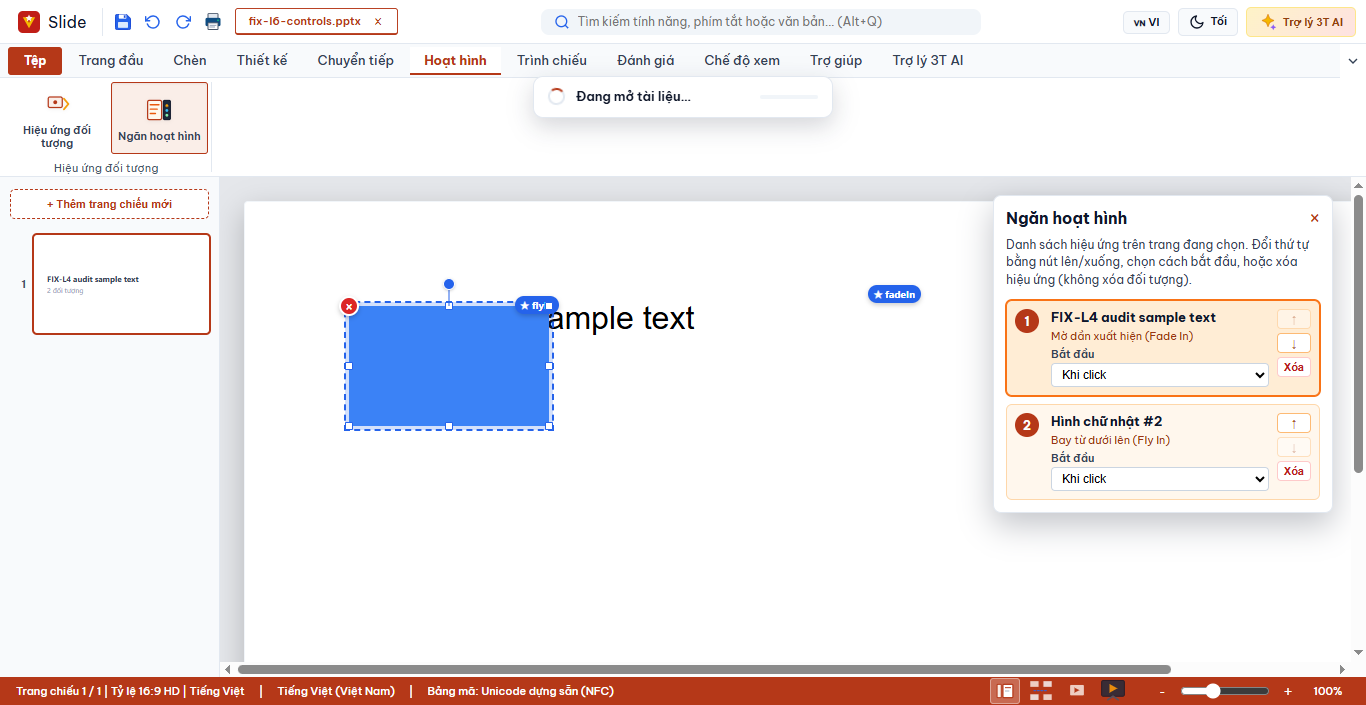
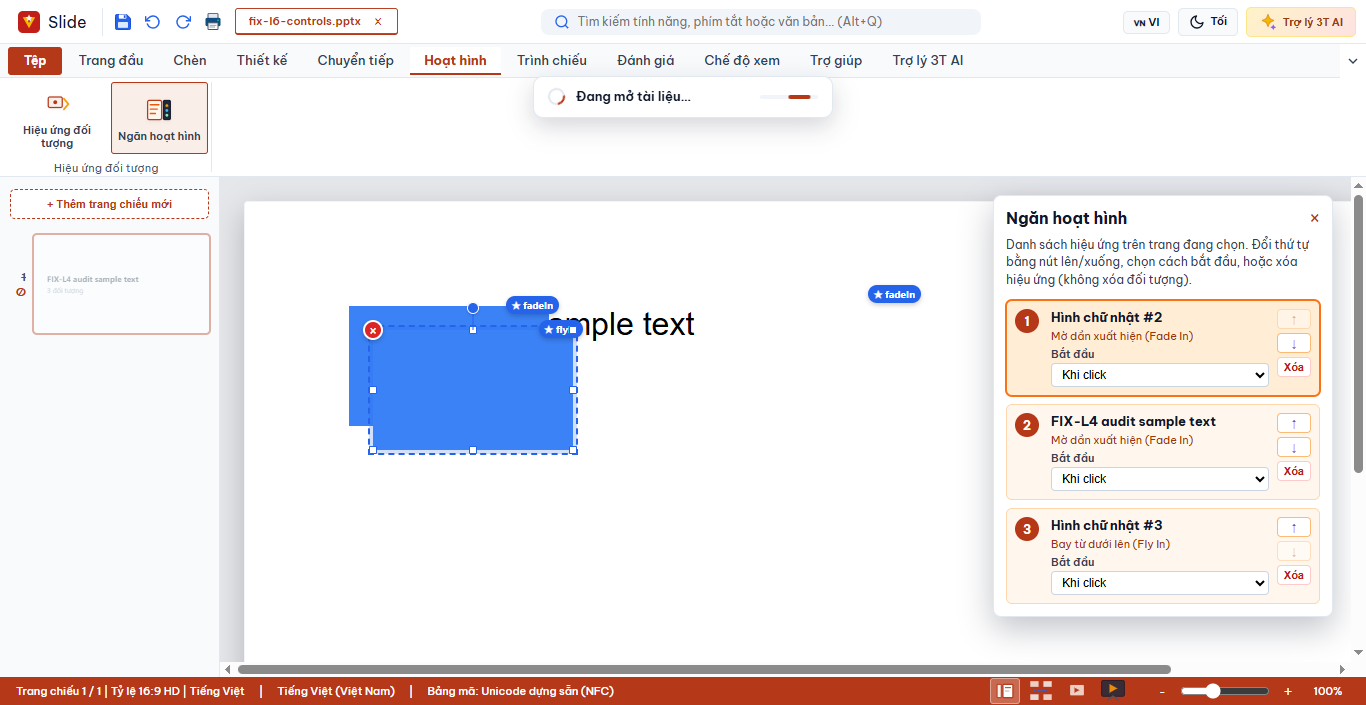
fix(slides): preserve PowerPoint animation timeline types

diff --git a/adapters/libreoffice/common/ooxml_zip_patch.py b/adapters/libreoffice/common/ooxml_zip_patch.py
@@ -6591,6 +6591,56 @@ def restore_notes_to_pptx(
     return dest.getvalue()
 
 
+def _normalize_slides_animation_timing(pptx_bytes: bytes) -> dict[str, str]:
+    """Group LibreOffice click effects so PowerPoint reads their preset and timing."""
+    presentation_ns = "http://schemas.openxmlformats.org/presentationml/2006/main"
+    p = "{" + presentation_ns + "}"
+    replacements: dict[str, str] = {}
+    with zipfile.ZipFile(io.BytesIO(pptx_bytes), "r") as package:
+        slide_names = [name for name in package.namelist() if re.fullmatch(r"ppt/slides/slide\d+\.xml", name)]
+        slide_xml = {name: package.read(name) for name in slide_names}
+
+    for name, xml_bytes in slide_xml.items():
+        for _, (prefix, uri) in ET.iterparse(io.BytesIO(xml_bytes), events=("start-ns",)):
+            if prefix:
+                ET.register_namespace(prefix, uri)
+        root = ET.fromstring(xml_bytes)
+        parents = {child: parent for parent in root.iter() for child in parent}
+        click_effects = [node for node in root.iter(p + "cTn") if node.get("nodeType") == "clickEffect" and node.get("presetID") in {"2", "10"}]
+        if not click_effects:
+            continue
+        next_id = max((int(node.get("id", "0")) for node in root.iter(p + "cTn") if node.get("id", "").isdigit()), default=0) + 1
+        changed = False
+        for click_node in click_effects:
+            effect_par = parents.get(click_node)
+            siblings = parents.get(effect_par) if effect_par is not None else None
+            if effect_par is None or effect_par.tag != p + "par" or siblings is None or siblings.tag != p + "childTnLst":
+                continue
+            existing_wrapper = parents.get(siblings)
+            existing_conditions = existing_wrapper.find(p + "stCondLst") if existing_wrapper is not None else None
+            existing_condition = existing_conditions.find(p + "cond") if existing_conditions is not None else None
+            if existing_wrapper is not None and existing_wrapper.tag == p + "cTn" and existing_condition is not None and existing_condition.get("delay") == "0":
+                continue
+            preset_id = click_node.get("presetID")
+            click_node.set("presetClass", click_node.get("presetClass") or "entr")
+            click_node.set("presetSubtype", click_node.get("presetSubtype") or ("0" if preset_id == "10" else "4"))
+            click_node.set("grpId", click_node.get("grpId") or "0")
+            wrapper_par = ET.Element(p + "par")
+            wrapper_timing = ET.SubElement(wrapper_par, p + "cTn", {"id": str(next_id), "fill": "hold"})
+            next_id += 1
+            conditions = ET.SubElement(wrapper_timing, p + "stCondLst")
+            ET.SubElement(conditions, p + "cond", {"delay": "0"})
+            children = ET.SubElement(wrapper_timing, p + "childTnLst")
+            children.append(effect_par)
+            index = list(siblings).index(effect_par)
+            siblings.remove(effect_par)
+            siblings.insert(index, wrapper_par)
+            changed = True
+        if changed:
+            replacements[name] = ET.tostring(root, encoding="unicode")
+    return replacements
+
+
 def postprocess_slides_pptx(
     pptx_bytes: bytes,
     *,
@@ -6655,8 +6705,10 @@ def postprocess_slides_pptx(
     # Luôn kiểm tra notes — ghi chú diễn giả mất trắng khi soffice convert
     notes_by_slide = parse_notes_from_fodp(source_fodp) if source_fodp else {}
 
-    if not apply_logo and not theme_id and not apply_sections and not apply_show and not apply_slide_size and not notes_by_slide:
+    animation_replacements = _normalize_slides_animation_timing(pptx_bytes)
+    if not apply_logo and not theme_id and not apply_sections and not apply_show and not apply_slide_size and not notes_by_slide and not animation_replacements:
         return pptx_bytes
+    replacements.update(animation_replacements)
 
     if apply_slide_size and presentation_xml:
         presentation_xml = apply_intended_slide_size(presentation_xml, intended_size)

diff --git a/tests/test_slides_pptx_animation_timing.py b/tests/test_slides_pptx_animation_timing.py
@@ -1,0 +1,55 @@
+"""Regression coverage for PowerPoint-readable animation timing wrappers."""
+from __future__ import annotations
+
+import io
+import unittest
+import zipfile
+import xml.etree.ElementTree as ET
+
+import main
+
+patcher = main._ooxml_zip_patch()
+P = "http://schemas.openxmlformats.org/presentationml/2006/main"
+PFX = "{" + P + "}"
+ET.register_namespace("p", P)
+
+
+def make_pptx(slide_xml: str) -> bytes:
+    buffer = io.BytesIO()
+    with zipfile.ZipFile(buffer, "w", compression=zipfile.ZIP_DEFLATED) as package:
+        package.writestr("ppt/slides/slide1.xml", slide_xml)
+    return buffer.getvalue()
+
+
+class SlidesPptxAnimationTimingTests(unittest.TestCase):
+    def test_click_effects_are_wrapped_and_keep_native_preset_timing(self):
+        xml = f'''<p:sld xmlns:p="{P}"><p:timing><p:tnLst><p:par><p:cTn id="1"><p:childTnLst>
+          <p:par><p:cTn id="2" presetID="10" nodeType="clickEffect"><p:stCondLst><p:cond delay="200"/></p:stCondLst><p:childTnLst/></p:cTn></p:par>
+          <p:par><p:cTn id="3" presetID="2" nodeType="clickEffect"><p:stCondLst><p:cond delay="0"/></p:stCondLst><p:childTnLst/></p:cTn></p:par>
+        </p:childTnLst></p:cTn></p:par></p:tnLst></p:timing></p:sld>'''
+        patched = patcher.postprocess_slides_pptx(make_pptx(xml))
+        with zipfile.ZipFile(io.BytesIO(patched)) as package:
+            root = ET.fromstring(package.read("ppt/slides/slide1.xml"))
+        parents = {child: parent for parent in root.iter() for child in parent}
+        click_nodes = [node for node in root.iter(PFX + "cTn") if node.get("nodeType") == "clickEffect"]
+        self.assertEqual([node.get("presetID") for node in click_nodes], ["10", "2"])
+        self.assertEqual([node.get("presetSubtype") for node in click_nodes], ["0", "4"])
+        self.assertEqual([node.get("grpId") for node in click_nodes], ["0", "0"])
+        for click_node in click_nodes:
+            effect_par = parents[click_node]
+            wrapper = parents[parents[effect_par]]
+            self.assertEqual(wrapper.get("fill"), "hold")
+            self.assertEqual(wrapper.find(PFX + "stCondLst").find(PFX + "cond").get("delay"), "0")
+
+    def test_existing_powerpoint_wrapper_is_not_duplicated(self):
+        xml = f'''<p:sld xmlns:p="{P}"><p:timing><p:tnLst><p:par><p:cTn id="1"><p:childTnLst>
+          <p:par><p:cTn id="2" fill="hold"><p:stCondLst><p:cond delay="0"/></p:stCondLst><p:childTnLst>
+            <p:par><p:cTn id="3" presetID="10" presetClass="entr" presetSubtype="0" grpId="0" nodeType="clickEffect"><p:childTnLst/></p:cTn></p:par>
+          </p:childTnLst></p:cTn></p:par>
+        </p:childTnLst></p:cTn></p:par></p:tnLst></p:timing></p:sld>'''
+        original = make_pptx(xml)
+        self.assertEqual(patcher.postprocess_slides_pptx(original), original)
+
+
+if __name__ == "__main__":
+    unittest.main()

diff --git a/docs/tickets-0710/HANDOFF-FIX-L6-CODEX.md b/docs/tickets-0710/HANDOFF-FIX-L6-CODEX.md
@@ -4,13 +4,13 @@ BRANCH: audit/slides-l6-codex
 WORKTREE: E:\VNOffice-codex-fl6
 OBJECTIVE: Compare untested Slides operations to real PowerPoint via COM; perform app operations with CDP; fix reproducible mismatches; capture evidence; run requested tests.
 FINDINGS: See `docs/tickets-0710/FIX-L6-RESULTS.md`. Shape format fixed and verified. Textbox/table/image/chart save and reopen verified. Basic diagram is seven individual shapes, not native SmartArt. Animation type/trigger and PowerPoint effect count mismatch; transition enum not confirmed. Layout/Reset and native theme parity remain unresolved. Start-current, pen mode, laser, and speaker notes verified as recorded.
-IMPLEMENTATION SUMMARY: Commit `9e38aad6` adds shape fill/outline/width/height/rotation UI, adapter serialization, Vietnamese Help/i18n and regression coverage. Follow-up commit fixes Help registry syntax. COM comparator and CDP evidence harness expanded.
-FILES CHANGED: `apps/slides/slides-canvas.js`; `adapters/libreoffice/slides/slides-adapter.js`; `platform/help/entries-slides.js`; `platform/i18n/strings-{vi,en}.js`; `tests/unit/slides-basics-audit.test.js`; `tests/unit/slides-shape-rotation-serialize.test.js`; `tests/live/cdp/slides-fix-l6*.desktop.mjs`; `scripts/audit-0610/office_parallel/slides/compare.ps1`; `docs/tickets-0710/FIX-L6-{PLAN,RESULTS}.md`; `docs/tickets-0710/evidence/fix-l6/*`.
-COMMANDS RUN: Focused Slides tests; CDP insert/controls/image/show scripts; `features-audit.desktop.mjs`; PowerPoint COM comparer on `fix-l6-image.pptx`, `fix-l6-controls.pptx`, `fix-l6-inserts.pptx`, `features-result.pptx`; `npm test`; `python -m unittest`; `python -m unittest discover`; `git diff --check` (run before handoff).
+IMPLEMENTATION SUMMARY: Commits `9e38aad6` and `0176ba2c` add shape formatting, Help/i18n, COM/CDP audit and evidence. This commit adds PPTX animation wrapper normalization so PowerPoint reads effects in native order and types.
+FILES CHANGED: `adapters/libreoffice/common/ooxml_zip_patch.py`; `tests/test_slides_pptx_animation_timing.py`; `apps/slides/slides-canvas.js`; `adapters/libreoffice/slides/slides-adapter.js`; `platform/help/entries-slides.js`; `platform/i18n/strings-{vi,en}.js`; `tests/unit/slides-basics-audit.test.js`; `tests/unit/slides-shape-rotation-serialize.test.js`; `tests/live/cdp/slides-fix-l6*.desktop.mjs`; `scripts/audit-0610/office_parallel/slides/compare.ps1`; `docs/tickets-0710/FIX-L6-{PLAN,RESULTS}.md`; `docs/tickets-0710/evidence/fix-l6/*`.
+COMMANDS RUN: Focused Slides tests; CDP insert/controls/image/show scripts; `features-audit.desktop.mjs`; PowerPoint COM comparer on `fix-l6-image.pptx`, `fix-l6-controls.pptx`, `fix-l6-inserts.pptx`, `features-result.pptx`; `npm test`; `python -m unittest`; `python -m unittest discover`; focused animation postprocess unittest 2/2 PASS; `git diff --check` (run before handoff).
 BUILD RESULT: NOT RUN (no build requested).
 TEST RESULTS: `npm test` PASS 3068/3068. Exact Python unittest commands both ran and exited 1 because no tests were discovered. CDP and PowerPoint COM evidence/results documented in FIX-L6-RESULTS.md.
-KNOWN FAILURES: SmartArt native object not produced; animation effect type/trigger and native order mismatch in PPTX; Reset command absent; layout/theme native parity unconfirmed; actual pen stroke persistence not tested.
+KNOWN FAILURES: SmartArt native object not produced; Reset command absent; layout/theme native parity unconfirmed; actual pen stroke persistence not tested.
 RISKS: Do not claim full PowerPoint parity for the known failures. Python unittest is unavailable because the repository has no discoverable Python tests.
-DEPENDENCIES/BLOCKERS: Remaining native SmartArt/animation/layout/theme parity work needs follow-up audit/fix. No external dependency added.
+DEPENDENCIES/BLOCKERS: Remaining native SmartArt/layout/theme parity work needs follow-up audit/fix. No external dependency added.
 CORE PATCH ID (if any): None.
-NEXT ACTION: Continue with SmartArt native parity, animation OOXML/native timeline, layout Reset, theme readback and persisted pen ink. Keep each fix in an isolated commit and add Vietnamese Help/i18n for any newly exposed UI feature.
+NEXT ACTION: Continue with SmartArt native parity, layout Reset, theme readback and persisted pen ink. Keep each fix in an isolated commit and add Vietnamese Help/i18n for any newly exposed UI feature.
